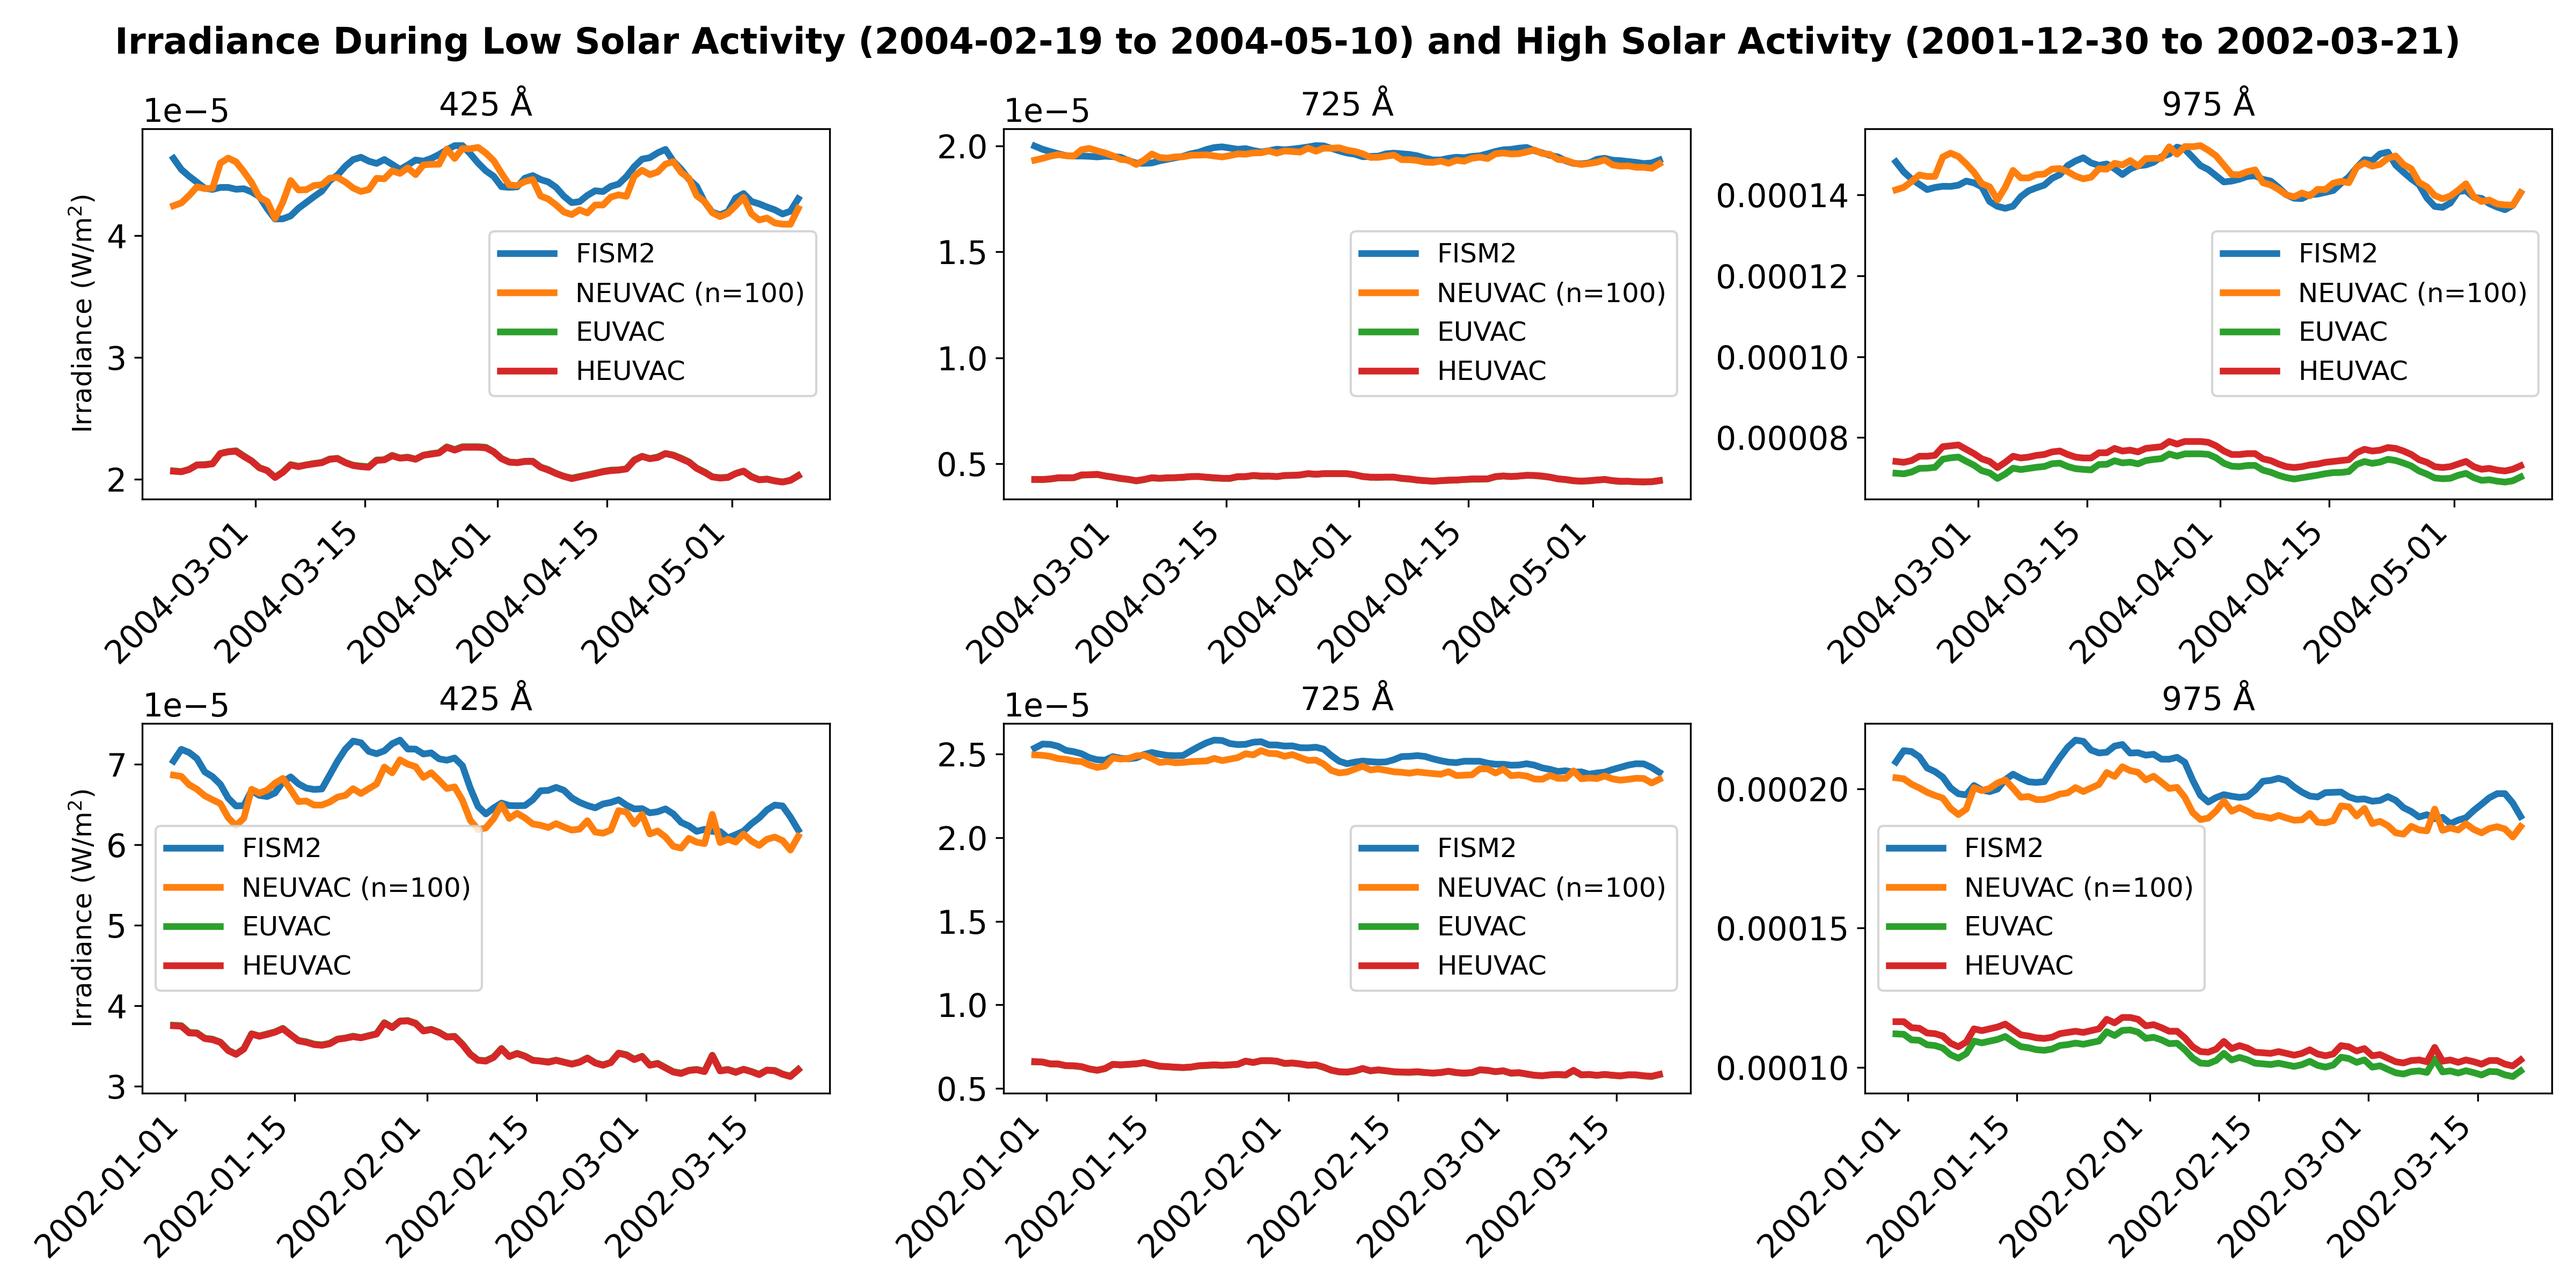
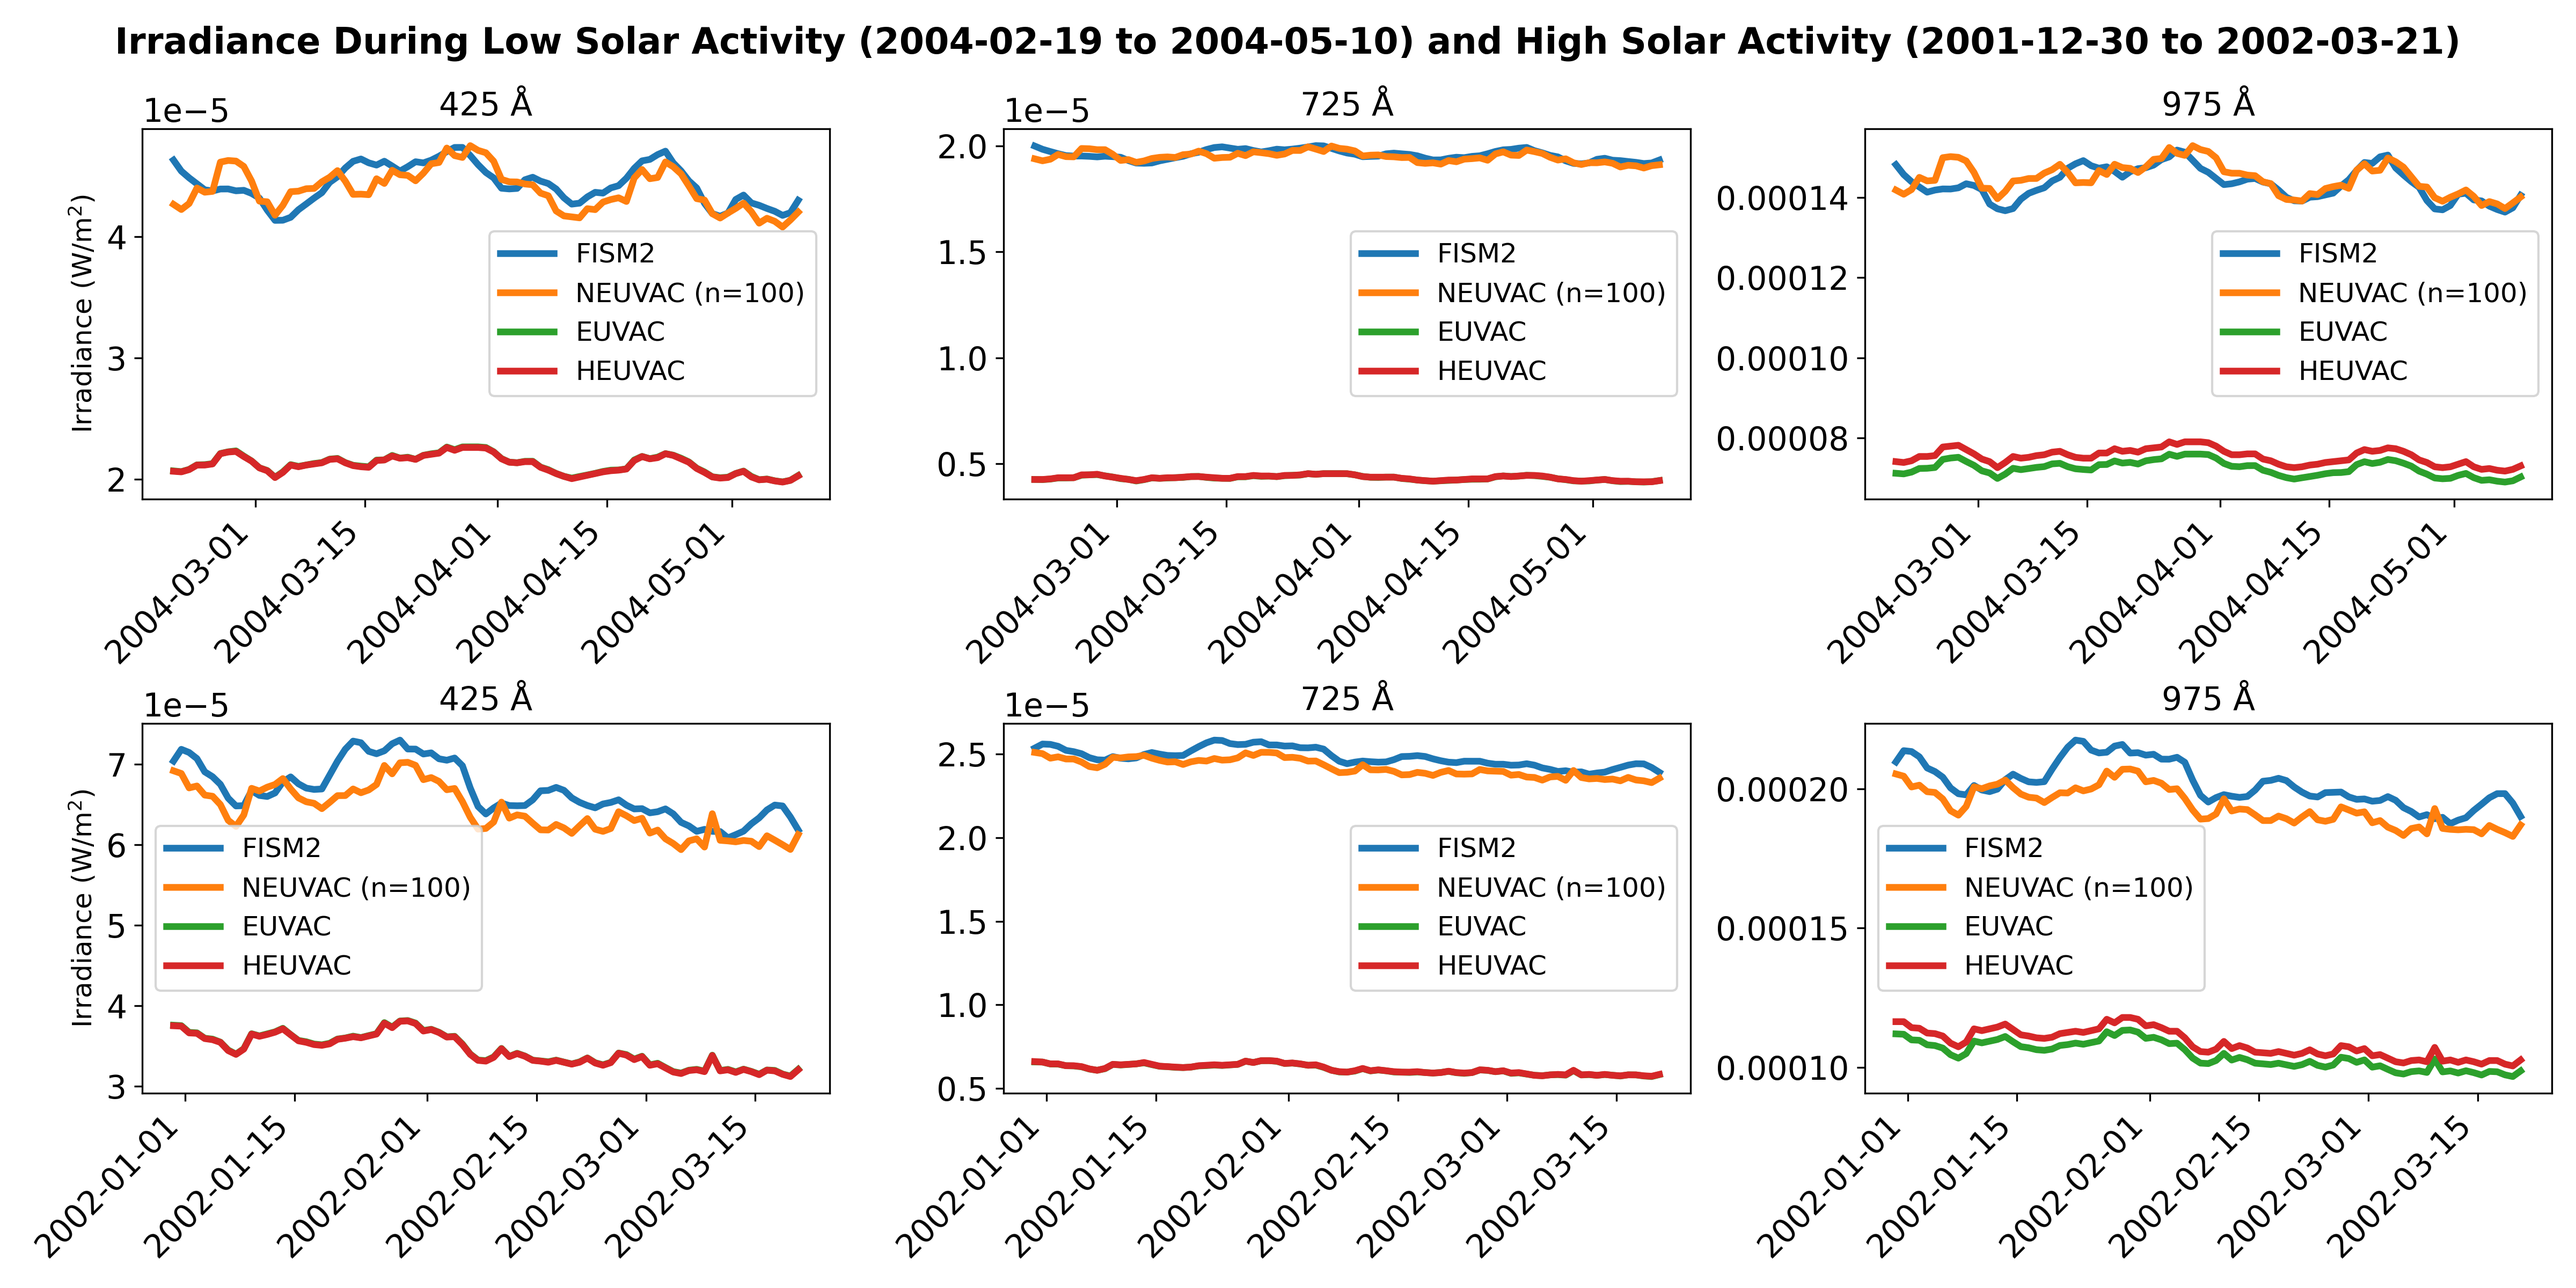
Minor changes: Fixed labels and axes on some plots.

diff --git a/experiments/analyzeIrradiance.py b/experiments/analyzeIrradiance.py
@@ -235,7 +235,7 @@ if __name__=="__main__":
 
         solomonFluxHFG, solomonIrrHFG = solomon.solomon(F107, F107A, model='HFG')
         solomonFluxEUVAC, solomonIrrEUVAC = solomon.solomon(F107, F107A, model='EUVAC')
-        
+
         # solomonWavs, solomonIrrFISM2_test = toolbox.newbins(wavelengthsFISM2, myIrrDataAllFISM2, solomonTable,
         #                 zero=False)
         # plt.figure();
@@ -628,7 +628,7 @@ if __name__=="__main__":
     HEUVAC_resids_425 = HEUVAC_resids[:, 12]
     HEUVAC_resids_725 = HEUVAC_resids[:, 24]
     HEUVAC_resids_975 = HEUVAC_resids[:, 31]
-    fig, axs = plt.subplots(nrows=1, ncols=3)
+    fig, axs = plt.subplots(nrows=1, ncols=3, sharey=True)
     axs[0].scatter(F107[sortF107], NEUVAC_resids_425[sortF107], color='orange', label='NEUVAC-37 (n='+str(iterations)+')')
     axs[0].scatter(F107[sortF107], EUVAC_resids_425[sortF107], color='green', label='EUVAC')
     axs[0].scatter(F107[sortF107], HEUVAC_resids_425[sortF107], color='red', label='HEUVAC-37')
@@ -1007,7 +1007,7 @@ if __name__=="__main__":
     HFG_resids_430_Solomon = HFG_resids_Solomon[:, 9]
     HFG_resids_724_Solomon = HFG_resids_Solomon[:, 1]
     HFG_resids_981_Solomon = HFG_resids_Solomon[:, 19]
-    fig, axs = plt.subplots(nrows=1, ncols=3)
+    fig, axs = plt.subplots(nrows=1, ncols=3, sharey=True)
     axs[0].scatter(F107[sortF107], NEUVAC_resids_430_Solomon[sortF107], color='orange',
                    label='NEUVAC-S (n=' + str(iterations) + ')')
     axs[0].scatter(F107[sortF107], EUVAC_resids_430_Solomon[sortF107], color='green', label='EUVAC-22')
@@ -1019,7 +1019,7 @@ if __name__=="__main__":
     axs[1].scatter(F107[sortF107], NEUVAC_resids_724_Solomon[sortF107], color='orange', label='NEUVAC-22 (n='+str(iterations)+')')
     axs[1].scatter(F107[sortF107], EUVAC_resids_724_Solomon[sortF107], color='green', label='EUVAC-22')
     axs[1].scatter(F107[sortF107], HFG_resids_724_Solomon[sortF107], color='purple', label='HFG')
-    axs[1].set_ylim([-150, 300])
+    axs[1].set_ylim([-150, 150])
     axs[1].set_xlabel('F107 (sfu)')
     axs[1].set_title('725 $\mathrm{\AA}$')
     axs[1].legend(loc='best')
@@ -1051,25 +1051,25 @@ if __name__=="__main__":
 
     fig, axs = plt.subplots(nrows=3, ncols=1)
     #
-    axs[0].plot(lowSolarTimesLonger, fism2IntegEnergySolomon[lowSolarTimeIndsLonger] / (1e9), label='FISM2-S')
-    axs[0].plot(lowSolarTimesLonger, neuvacIntegEnergySolomon[lowSolarTimeIndsLonger] / (1e9), label='NEUVAC-S (n=' + str(iterations) + ')')
-    axs[0].plot(lowSolarTimesLonger, euvacIntegEnergySolomon[lowSolarTimeIndsLonger] / (1e9), label='EUVAC-S')
+    axs[0].plot(lowSolarTimesLonger, fism2IntegEnergySolomon[lowSolarTimeIndsLonger] / (1e9), label='FISM2')
+    axs[0].plot(lowSolarTimesLonger, neuvacIntegEnergySolomon[lowSolarTimeIndsLonger] / (1e9), label='NEUVAC-22 (n=' + str(iterations) + ')')
+    axs[0].plot(lowSolarTimesLonger, euvacIntegEnergySolomon[lowSolarTimeIndsLonger] / (1e9), label='EUVAC-22')
     axs[0].plot(lowSolarTimesLonger, hfgIntegEnergySolomon[lowSolarTimeIndsLonger] / (1e9), label='HFG', color='purple')
     axs[0].set_ylabel('Integrated Energy (GW)')
     axs[0].legend(loc='best')
     axs[0].set_title('Low Solar Activity: '+str(lowSolarTimeBoundsLonger[0])[:-9]+' to '+str(lowSolarTimeBoundsLonger[-1])[:-9])
     #
-    axs[1].plot(highSolarTimesLonger, fism2IntegEnergySolomon[highSolarTimeIndsLonger] / (1e9), label='FISM2-S')
-    axs[1].plot(highSolarTimesLonger, neuvacIntegEnergySolomon[highSolarTimeIndsLonger] / (1e9), label='NEUVAC-S (n=' + str(iterations) + ')')
-    axs[1].plot(highSolarTimesLonger, euvacIntegEnergySolomon[highSolarTimeIndsLonger] / (1e9), label='EUVAC-S')
+    axs[1].plot(highSolarTimesLonger, fism2IntegEnergySolomon[highSolarTimeIndsLonger] / (1e9), label='FISM2')
+    axs[1].plot(highSolarTimesLonger, neuvacIntegEnergySolomon[highSolarTimeIndsLonger] / (1e9), label='NEUVAC-22 (n=' + str(iterations) + ')')
+    axs[1].plot(highSolarTimesLonger, euvacIntegEnergySolomon[highSolarTimeIndsLonger] / (1e9), label='EUVAC-22')
     axs[1].plot(highSolarTimesLonger, hfgIntegEnergySolomon[highSolarTimeIndsLonger] / (1e9), label='HFG', color='purple')
     axs[1].set_ylabel('Integrated Energy (GW)')
     axs[1].legend(loc='best')
     axs[1].set_title('High Solar Activity: '+str(highSolarTimeBoundsLonger[0])[:-9]+' to '+str(highSolarTimeBoundsLonger[-1])[:-9])
     #
-    axs[2].plot(times, fism2IntegEnergySolomon / (1e9), label='FISM2-S')
-    axs[2].plot(times, neuvacIntegEnergySolomon / (1e9), label='NEUVAC-S (n='+str(iterations)+')')
-    axs[2].plot(times, euvacIntegEnergySolomon / (1e9), label='EUVAC-S')
+    axs[2].plot(times, fism2IntegEnergySolomon / (1e9), label='FISM2')
+    axs[2].plot(times, neuvacIntegEnergySolomon / (1e9), label='NEUVAC-22 (n='+str(iterations)+')')
+    axs[2].plot(times, euvacIntegEnergySolomon / (1e9), label='EUVAC-22')
     axs[2].plot(times, hfgIntegEnergySolomon / (1e9), label='HFG', color='purple')
     axs[2].set_xlabel('Time')
     axs[2].set_ylabel('Integrated Energy (GW)')

diff --git a/experiments/fitNeuvac.py b/experiments/fitNeuvac.py
@@ -64,7 +64,7 @@ if __name__=="__main__":
     euv_data_59 = read_euv_csv_file(euv_folder + 'euv_59.csv', band=False)
     mids = 0.5 * (euv_data_59['long'] + euv_data_59['short'])
 
-    refit = [True, True] # Control whether not refitting is done for the GITM bins and the Solomon bins, respectively.
+    refit = [False, True] # Control whether not refitting is done for the GITM bins and the Solomon bins, respectively.
     # ==================================================================================================================
     # GITM BINS
     # ==================================================================================================================
@@ -133,11 +133,11 @@ if __name__=="__main__":
     myIrrDataAllFISM2BandsFixed[myIrrDataAllFISM2BandsFixed <= 0] = np.nan
 
     # Rebin the high-resolution daily FISM2 data into the Solomon bins, as a sanity check:
-    matchInds = np.where((myIrrTimesFISM2Bands >= myIrrTimesFISM2[0]) & (myIrrTimesFISM2Bands <= myIrrTimesFISM2[-1]))[0]
-    matchedFISM2IrrSolomon = myIrrDataAllFISM2BandsFixed[matchInds, :]
-    myWavelengthsFISM2Bands, rebinnedIrrDataFISM2Bands = toolbox.solomonAnalysis(matchedFISM2IrrSolomon, solomonTable,
-                                                                                 myIrrDataAllFISM2,
-                                                                                 wavelengthsFISM2)  # .newbins(wavelengthsFISM2, myIrrDataAllFISM2, solomonTable, zero=True)
+    # matchInds = np.where((myIrrTimesFISM2Bands >= myIrrTimesFISM2[0]) & (myIrrTimesFISM2Bands <= myIrrTimesFISM2[-1]))[0]
+    # matchedFISM2IrrSolomon = myIrrDataAllFISM2BandsFixed[matchInds, :]
+    # myWavelengthsFISM2Bands, rebinnedIrrDataFISM2Bands = toolbox.solomonAnalysis(matchedFISM2IrrSolomon, solomonTable,
+    #                                                                              myIrrDataAllFISM2,
+    #                                                                              wavelengthsFISM2)  # .newbins(wavelengthsFISM2, myIrrDataAllFISM2, solomonTable, zero=True)
 
     if refit[1] == True:
         # Perform a non-linear fit between F10.7, F10.7B, and FISM2:

diff --git a/experiments/uncIrradiance.py b/experiments/uncIrradiance.py
@@ -53,6 +53,7 @@ if __name__=="__main__":
     # F10.7 data extends between 1963-11-28; 12:00 to 2023-09-27; 12:00.
     times = omniTimes
     F107 = omniF107
+    F107A = toolbox.rollingAverage(omniF107, 81, True, True)
     F107B = omniF107B
     # Compute F10.7 uncertainties.
     rollingStdF107 = toolbox.rollingStd(F107, 2)
@@ -195,7 +196,7 @@ if __name__=="__main__":
     # 5: Do all of the above, but for the SOLOMON version of NEUVAC:
 
     # Generate NEUVAC data:
-    neuvacIrrSolomon, _, _, _ = neuvac.neuvacEUV(F107, F107B, bands='SOLOMON', tableFile=neuvac_tableFile_Solomon)
+    neuvacIrrSolomon, _, _, _ = neuvac.neuvacEUV(F107, F107A, bands='SOLOMON', tableFile=neuvac_tableFile_Solomon)
 
     # Load in FISM2 STAN BAND data:
     # FISM2 Stan Band Results:
@@ -237,7 +238,7 @@ if __name__=="__main__":
     # ------------------------------------------------------------------------------------------------------------------
     # 6: Compute the normalized cross-correlation matrices and normalized standard deviations for ALL OTHER MODELS
     # 6a: EUVAC
-    euvacFlux, euvacIrr, _, _, _ = euvac.euvac(F107, F107B)
+    euvacFlux, euvacIrr, _, _, _ = euvac.euvac(F107, F107A)
 
     residualsArrayEUVAC = np.subtract(euvacIrr, correspondingIrrFISM2[:, 7:44])
     toolbox.savePickle(residualsArrayEUVAC, 'residualsArrayEUVAC.pkl')
@@ -257,7 +258,7 @@ if __name__=="__main__":
     plt.savefig('Uncertainty/corMatsEUVAC.png', dpi=300)
 
     # 6b: HEUVAC
-    # heuvac_wav, heuvacFlux, heuvacIrr, _, _, _ = heuvac.heuvac(F107, F107B, torr=True, statsFiles=['corMatHEUVAC.pkl',
+    # heuvac_wav, heuvacFlux, heuvacIrr, _, _, _ = heuvac.heuvac(F107, F107A, torr=True, statsFiles=['corMatHEUVAC.pkl',
     #                                                                                        'sigma_HEUVAC.pkl'])
     # residualsArrayHEUVAC = np.subtract(heuvacIrr, correspondingIrrFISM2[:, 7:44])
     # toolbox.savePickle(residualsArrayHEUVAC, 'residualsArrayHEUVAC.pkl')
